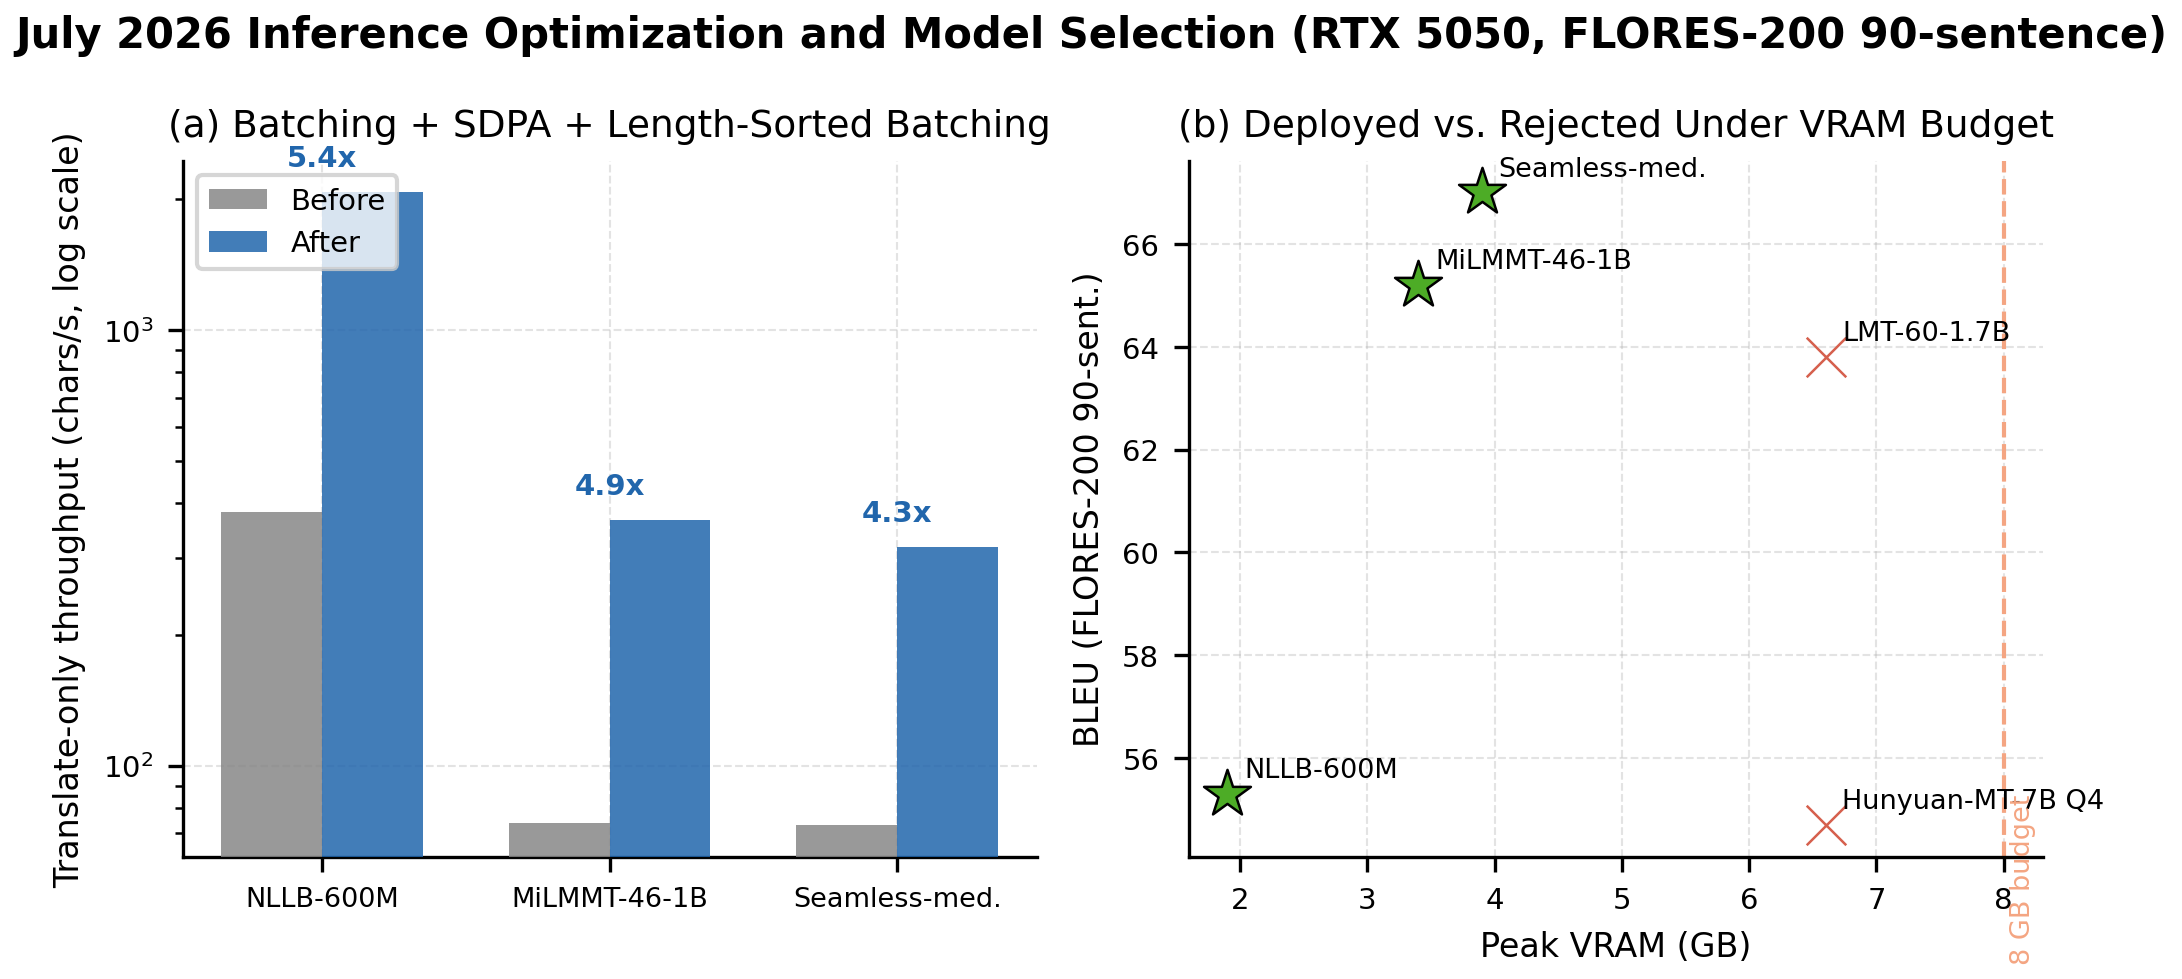
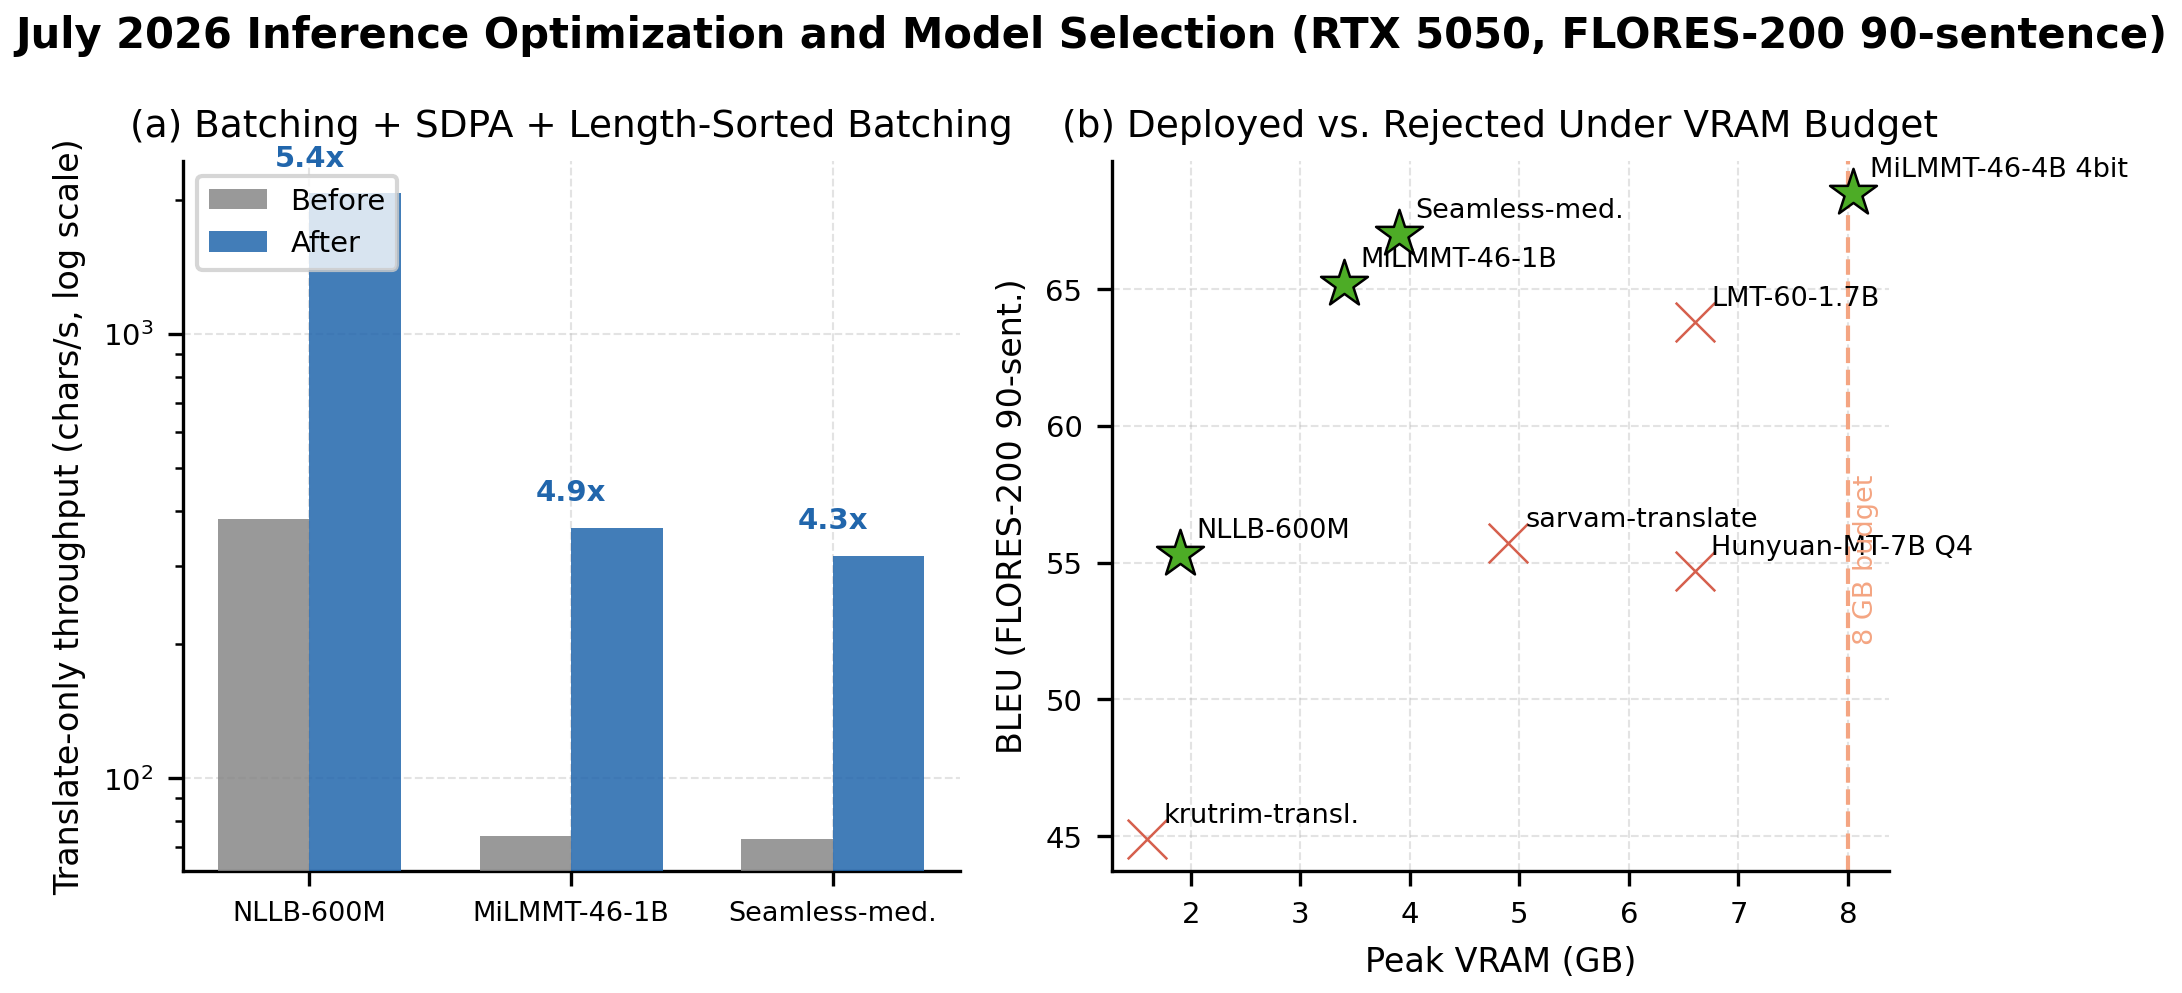
feat(figures): add MiLMMT-46-4B and 2026-07 rejected models to model-selection figure

diff --git a/scripts/gen_paper_figures.py b/scripts/gen_paper_figures.py
@@ -479,8 +479,11 @@ MODEL_SELECTION = {
     "NLLB-600M":        {"bleu": 55.3, "vram": 1.9, "deployed": True},
     "MiLMMT-46-1B":     {"bleu": 65.2, "vram": 3.4, "deployed": True},
     "Seamless-med.":    {"bleu": 67.0, "vram": 3.9, "deployed": True},
+    "MiLMMT-46-4B 4bit": {"bleu": 68.5, "vram": 8.05, "deployed": True},
     "LMT-60-1.7B":      {"bleu": 63.8, "vram": 6.6, "deployed": False},
     "Hunyuan-MT-7B Q4": {"bleu": 54.7, "vram": 6.6, "deployed": False},
+    "sarvam-translate": {"bleu": 55.7, "vram": 4.9, "deployed": False},
+    "krutrim-transl.":  {"bleu": 44.9, "vram": 1.6, "deployed": False},
 }
 
 
